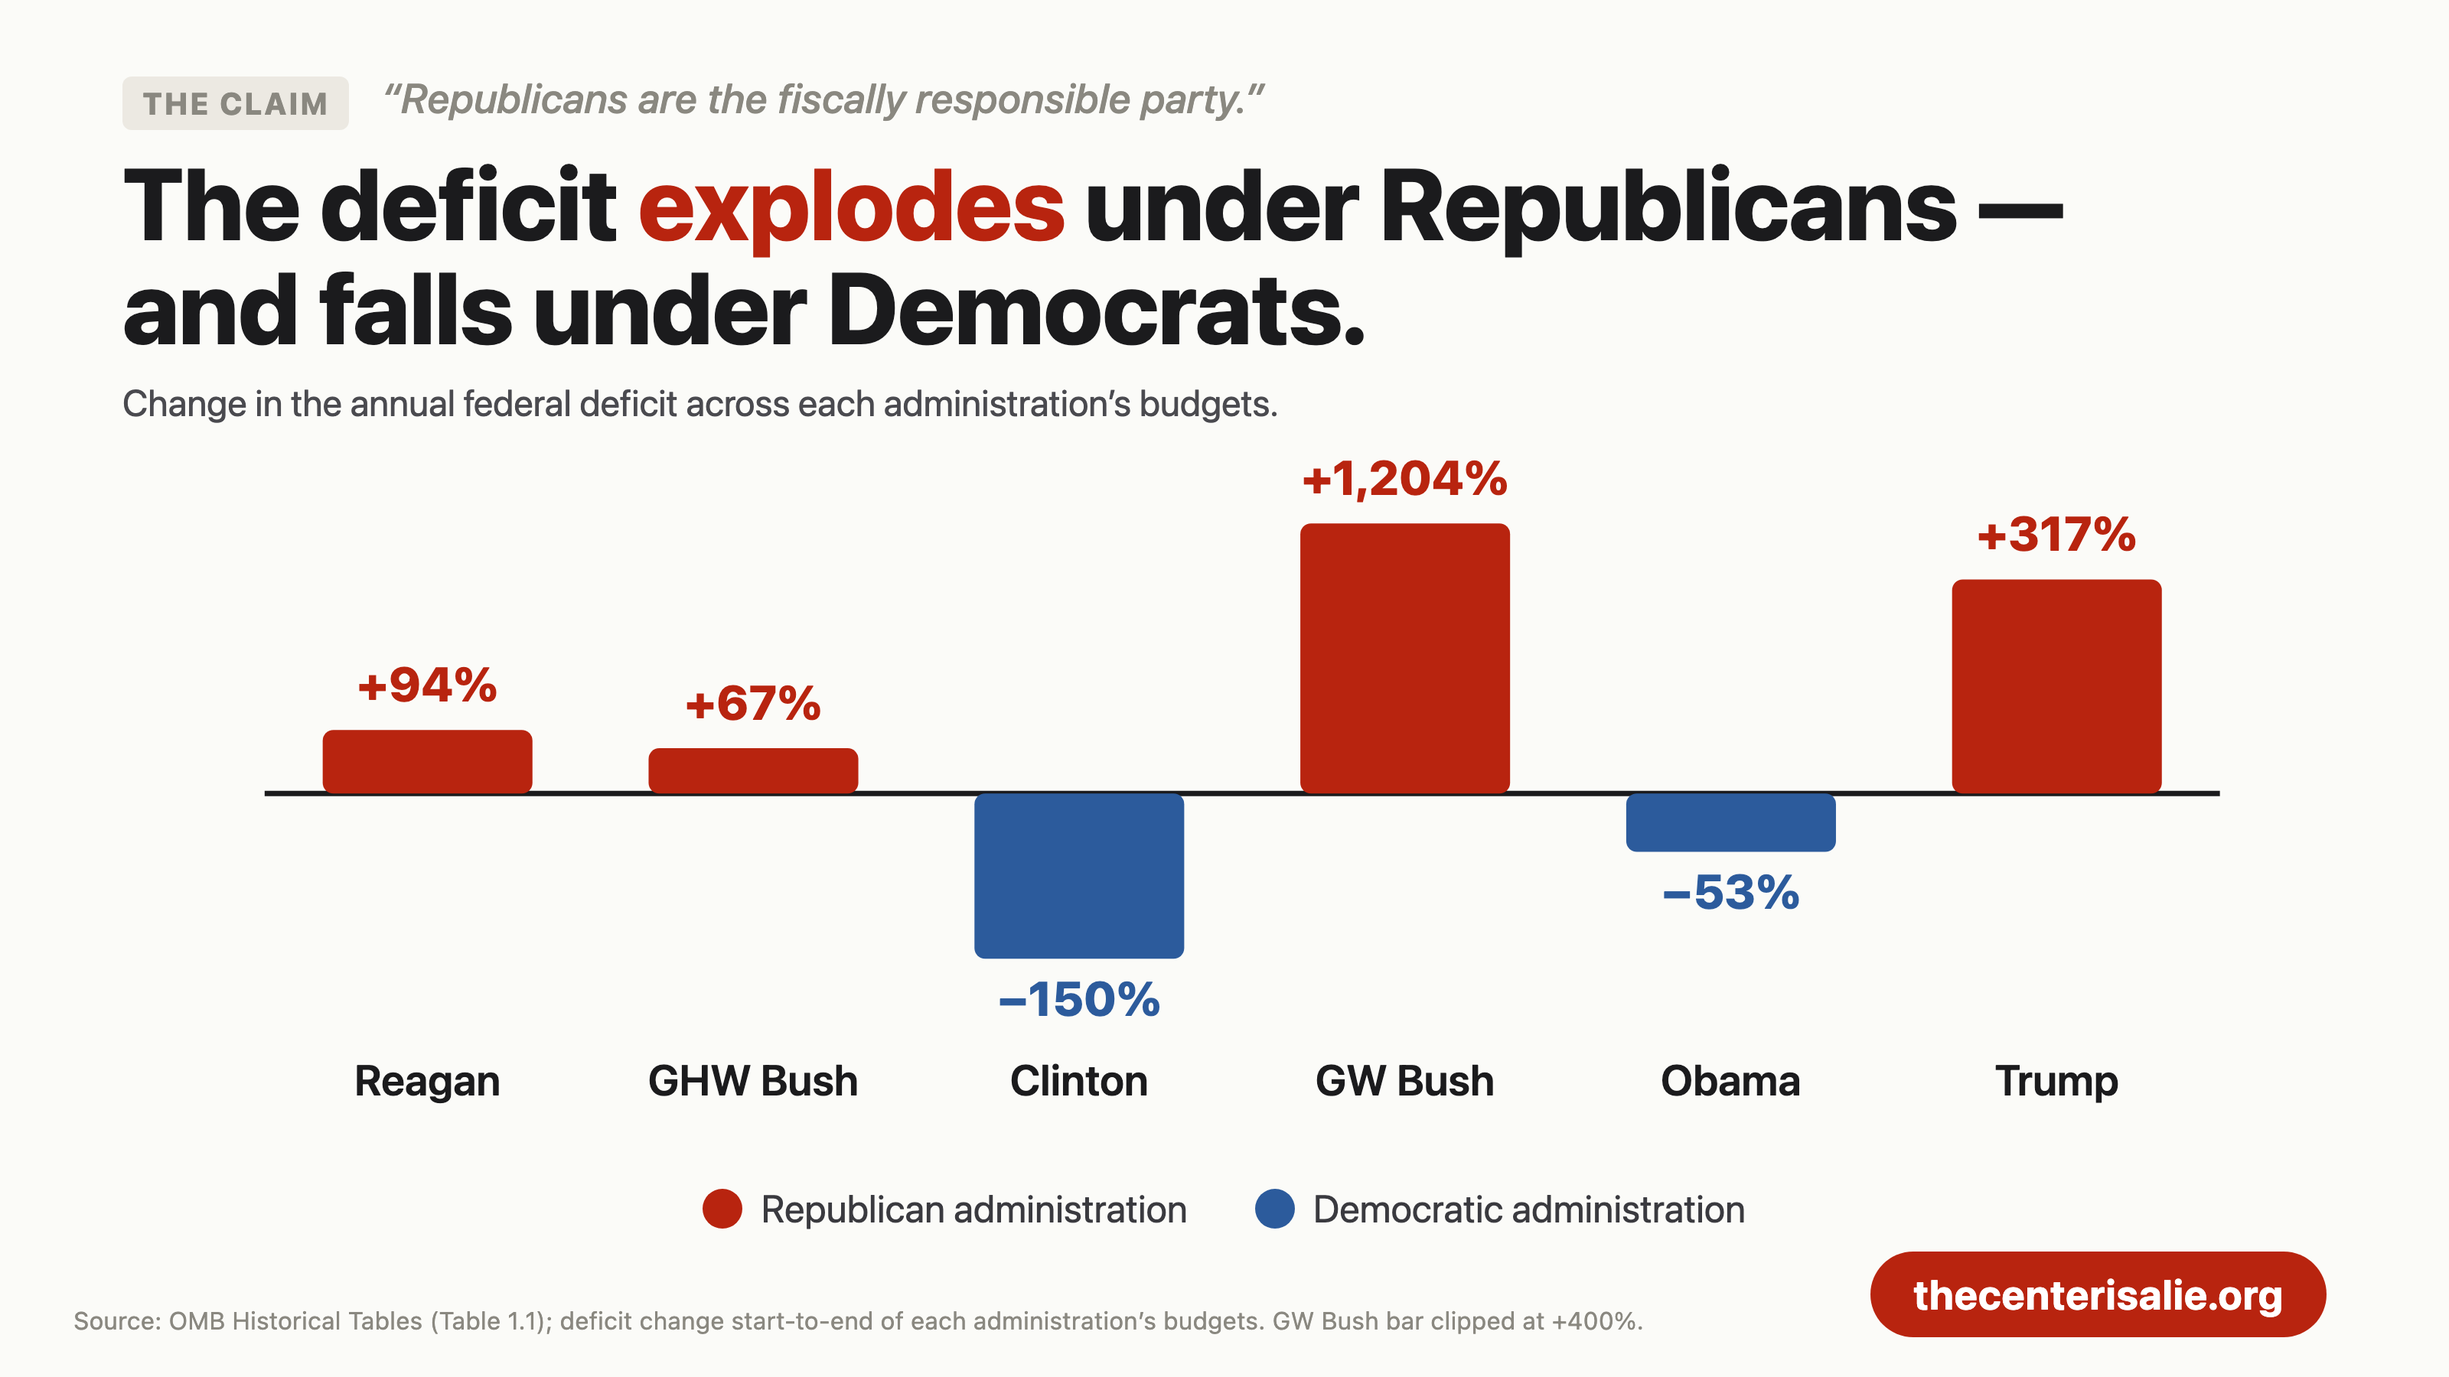
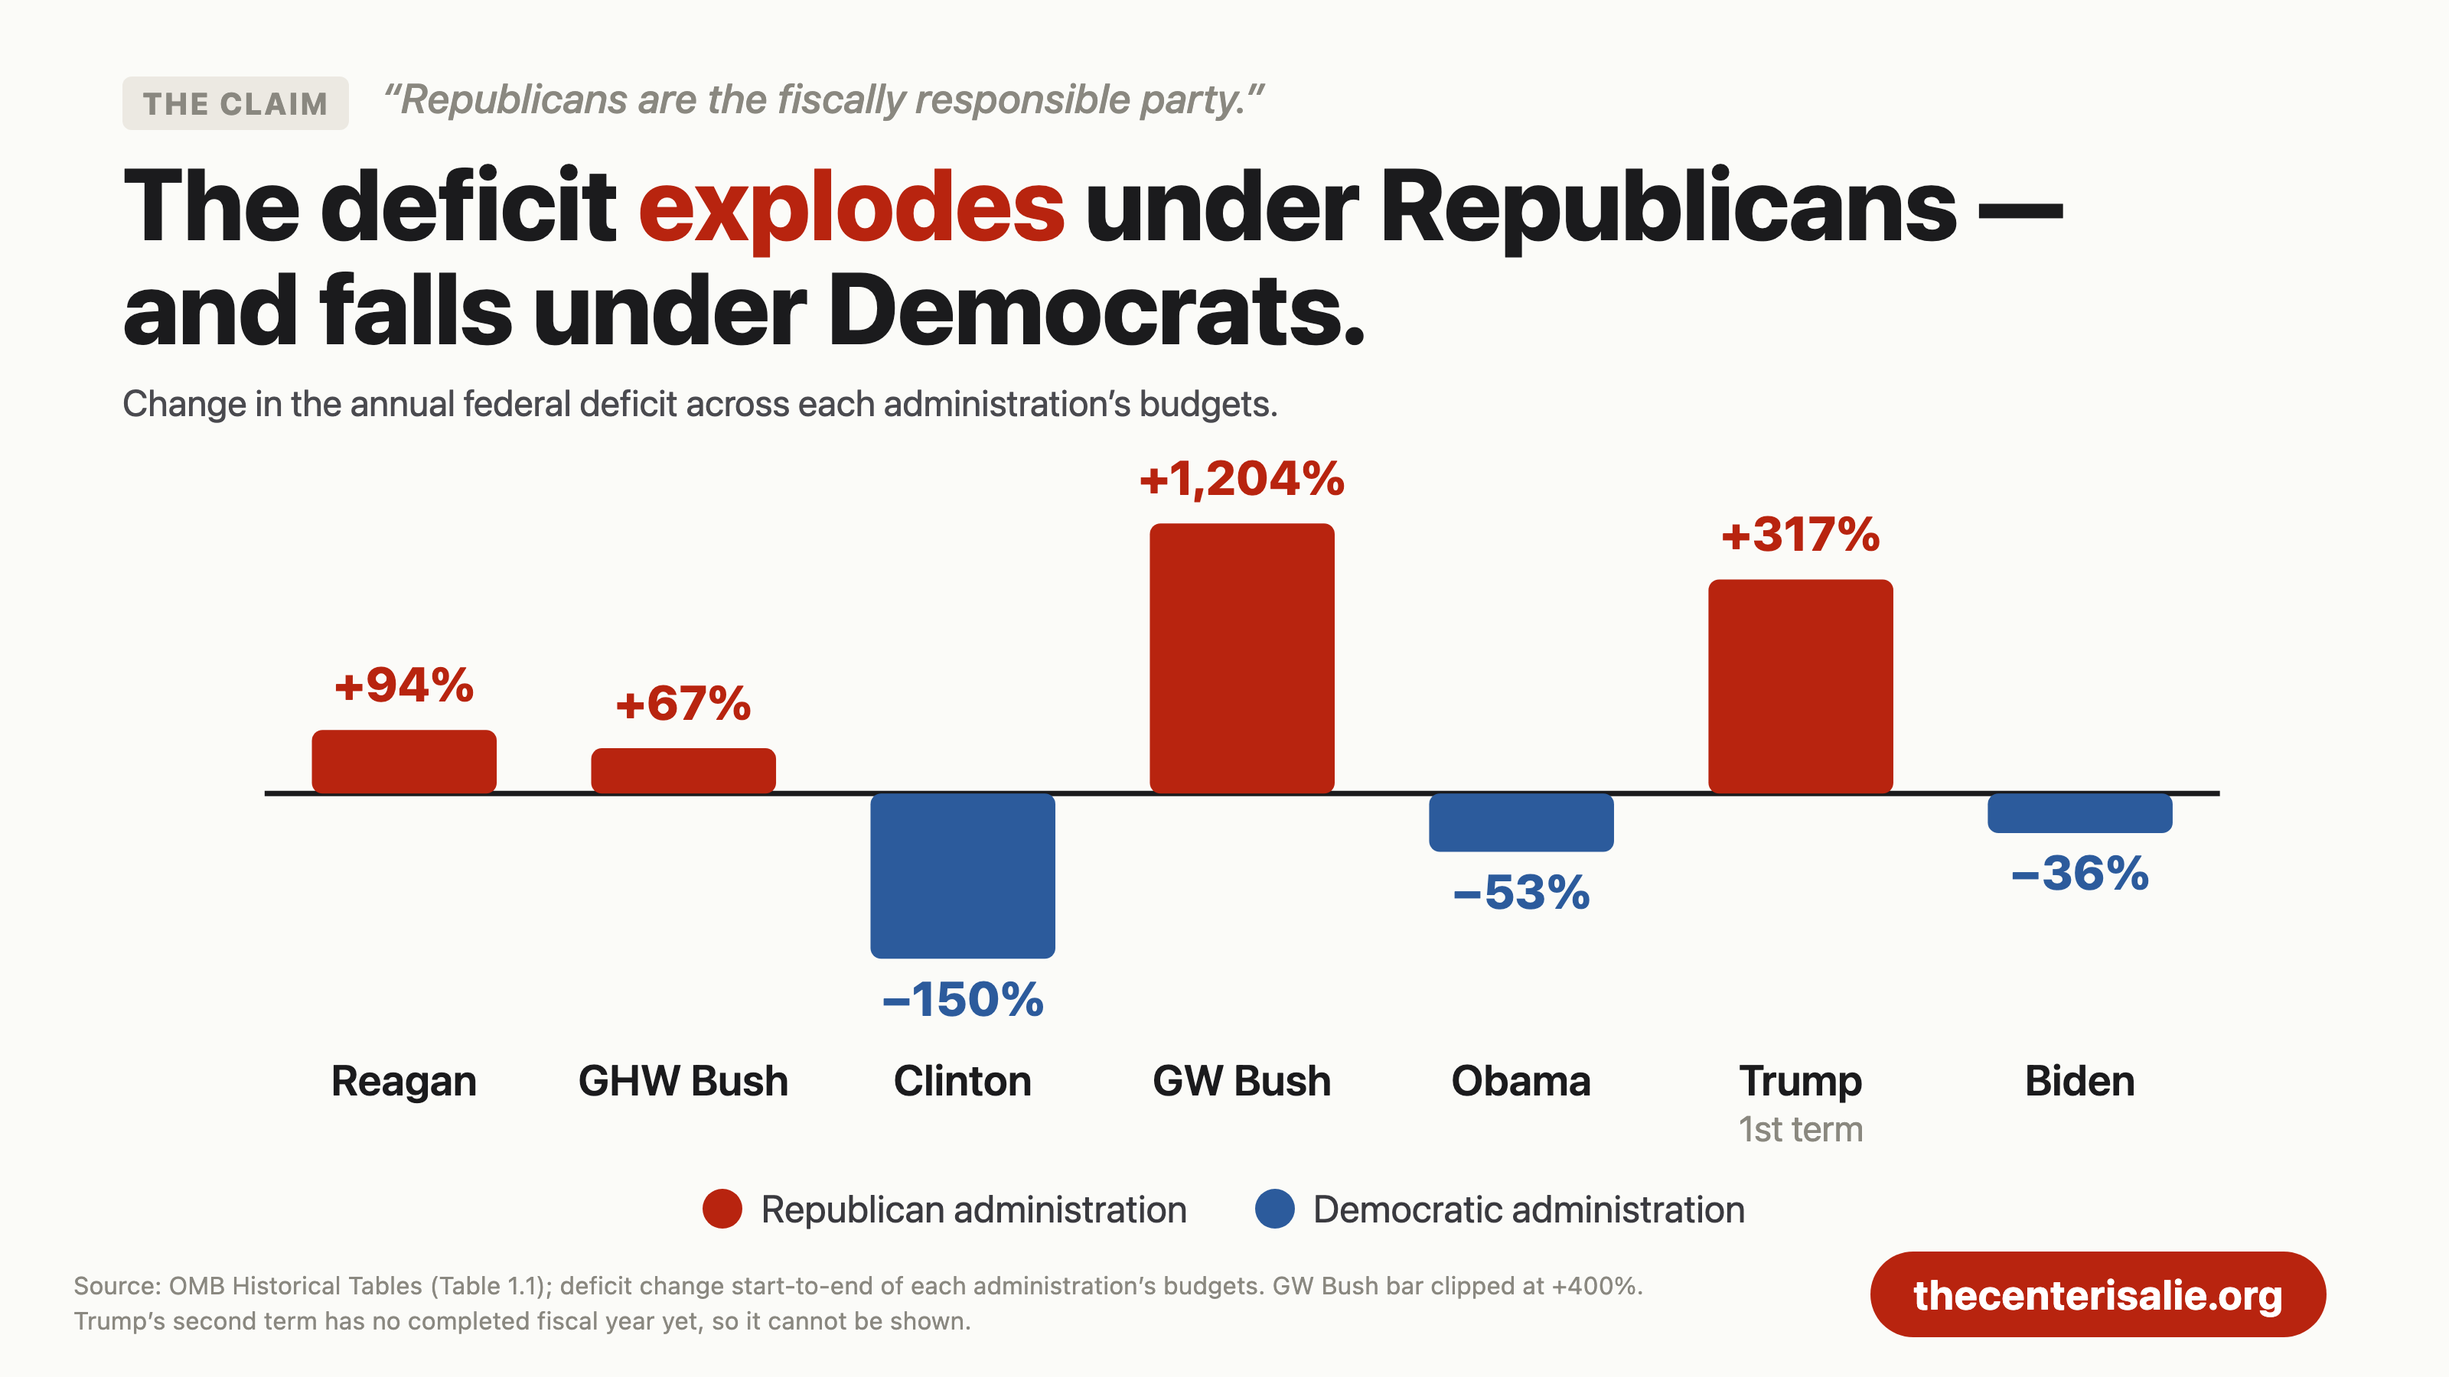
feat(og): add Biden to deficit; rebuild insideoutside as a proportional mosaic
deficit: Biden -36% (FY2021 $2,773.6B -> FY2025 $1,774.7B). Verified by
recomputing all six existing bars from the Treasury/OMB fiscal-year series
(FRED FYFSD) under the card's own convention, which reproduces every published
figure to within 0.3pp. Trump's bar relabeled "1st term"; the second term is
not shown because no fiscal year of it has closed, and the two non-consecutive
terms cannot be combined without sweeping Biden's budgets into the result.
Essay table and fn 80 updated in the same commit so prose and figure can't drift.

insideoutside: replaced the unscaled quadrant diagram with a mosaic whose cell
AREAS are shares of the 2016 electorate. Low trust is 75% of voters and spans
left, middle, right and no-position alike; high trust is 25%. Trust cut at
composite <=0.25, which is the same cutpoint as the already-published trust
terciles rather than a new one. "Haven't thought about it" is kept as its own
column instead of dropped, since at 13% of voters it is a substantive answer
and the most on-thesis one.

diff --git a/web/og-cards/chart-insideoutside.html b/web/og-cards/chart-insideoutside.html
@@ -2,56 +2,60 @@
 <html lang="en"><head><meta charset="utf-8"><link rel="stylesheet" href="./chart-card.css"></head>
 <body>
   <div class="chartcard">
-    <div class="cc-claim"><span class="tag">The claim</span> &ldquo;The winning move is to position yourself in the middle.&rdquo;</div>
-    <div class="cc-title">Nobody cares that Sanders is left of Buttigieg. They care that he&rsquo;s <span class="hl">outside</span>.</div>
-    <div class="cc-sub">Sanders and Trump agree on nothing and share the only trait a low-trust electorate rewards. Buttigieg and Romney agree on nothing either, and share the one it punishes. The horizontal axis is the argument every campaign has. The vertical one decides it.</div>
+    <div class="cc-claim"><span class="tag">The claim</span> &ldquo;Run as the safe, credentialed, inside-the-system candidate.&rdquo;</div>
+    <div class="cc-title">The &ldquo;inside the system&rdquo; pitch is aimed at the <span class="hl">smallest quarter</span> of the electorate.</div>
+    <div class="cc-sub">2016 voters by how much they trust government, sized to their real share. Three in four say Washington is run by a few big interests and wastes their money. They sit on the left, the right, and nowhere on the scale at all.</div>
 
-    <div class="cc-chart"><svg id="io" viewBox="0 0 1240 449" role="img"
-      aria-label="Quadrant diagram: Sanders and Trump sit outside the system at opposite ends of the left-right axis; Buttigieg and Romney sit inside it, near the middle"></svg></div>
+    <div class="cc-chart"><svg id="mo" viewBox="0 0 1240 430" role="img"
+      aria-label="Mosaic of 2016 voters. Low-trust band is 75 percent of voters, spanning left 18, middle 14, no position 13 and right 30 percent. High-trust band is 25 percent, spanning left 10, middle 5, no position 6 and right 5 percent."></svg></div>
 
     <div class="cc-foot">
-      <div class="cc-source">Framing, not a measured scale: positions show how each candidate was read by the electorate, per the inside/outside argument at thecenterisalie.org.</div>
+      <div class="cc-source">Source: ANES 2016 Time Series, POST weight (V160102), n=2,641 voters. Trust = 3-item composite (V161215/V161216/V161217, 0&ndash;1); low = &le;0.25, the same cutpoint as the published trust terciles. Ideology = 7-pt lib-con (V161126); &ldquo;no position&rdquo; = haven&rsquo;t thought much about it. Cell area is proportional to share of voters.</div>
       <div class="cc-btn">thecenterisalie.org</div>
     </div>
   </div>
 
   <script>
     const NS = 'http://www.w3.org/2000/svg';
-    const svg = document.getElementById('io');
+    const svg = document.getElementById('mo');
     const el = (t, a) => { const n = document.createElementNS(NS, t); for (const k in a) n.setAttribute(k, a[k]); return n; };
     const txt = (a, s) => { const t = el('text', a); t.textContent = s; svg.appendChild(t); return t; };
 
-    const X0 = 150, X1 = 1140, Y0 = 30, Y1 = 350;
-    const midX = (X0 + X1) / 2, midY = (Y0 + Y1) / 2;
-
-    // the outside half is the one that keeps winning, so tint it
-    svg.appendChild(el('rect', { x: X0, y: Y0, width: X1 - X0, height: midY - Y0, fill: '#b8240f', 'fill-opacity': 0.06 }));
-
-    // axes
-    svg.appendChild(el('line', { x1: X0, y1: midY, x2: X1, y2: midY, stroke: '#c9c6bd', 'stroke-width': 3 }));
-    svg.appendChild(el('line', { x1: midX, y1: Y0, x2: midX, y2: Y1, stroke: '#e0ddd5', 'stroke-width': 3, 'stroke-dasharray': '8 8' }));
-
-    txt({ x: X0, y: Y1 + 44, 'text-anchor': 'start', fill: '#6b6b70', 'font-size': 25, 'font-weight': 700 }, '← Left on policy');
-    txt({ x: X1, y: Y1 + 44, 'text-anchor': 'end', fill: '#6b6b70', 'font-size': 25, 'font-weight': 700 }, 'Right on policy →');
-    // band labels live inside their own half, so nothing rotates or collides
-    txt({ x: X0 + 18, y: Y0 + 34, 'text-anchor': 'start', fill: '#b8240f', 'font-size': 25, 'font-weight': 800, 'letter-spacing': 1.5 }, 'OUTSIDE THE SYSTEM');
-    txt({ x: X0 + 18, y: Y0 + 64, 'text-anchor': 'start', fill: '#b8240f', 'font-size': 23, opacity: 0.8 }, 'what a low-trust electorate rewards');
-    txt({ x: X0 + 18, y: Y1 - 40, 'text-anchor': 'start', fill: '#a8a59c', 'font-size': 25, 'font-weight': 800, 'letter-spacing': 1.5 }, 'INSIDE THE SYSTEM');
-    txt({ x: X0 + 18, y: Y1 - 12, 'text-anchor': 'start', fill: '#a8a59c', 'font-size': 23 }, 'what it punishes, however good the résumé');
-
-    const pts = [
-      { x: 0.10, y: 0.34, name: 'Sanders',   note: 'ran against the party',   out: true },
-      { x: 0.90, y: 0.16, name: 'Trump',     note: 'ran against everything',  out: true },
-      { x: 0.26, y: 0.70, name: 'Buttigieg', note: 'ran as the credential',   out: false },
-      { x: 0.82, y: 0.86, name: 'Romney',    note: 'ran as the résumé',       out: false },
+    // Weighted % of all 2016 voters. Row heights and cell widths are both
+    // proportional, so every cell's AREA is its share of the electorate.
+    const rows = [
+      { key: 'low',  label: 'LOW TRUST', note: 'the outsider’s electorate',
+        cells: [['Left', 17.65], ['Middle', 14.16], ['No position', 13.22], ['Right', 29.61]] },
+      { key: 'high', label: 'HIGH TRUST', note: 'who the “safe” pitch speaks to',
+        cells: [['Left', 9.60], ['Middle', 5.17], ['No position', 5.66], ['Right', 4.94]] },
     ];
-    pts.forEach((p) => {
-      const cx = X0 + p.x * (X1 - X0), cy = Y0 + p.y * (Y1 - Y0);
-      const col = p.out ? '#b8240f' : '#8a887f';
-      svg.appendChild(el('circle', { cx, cy, r: 17, fill: col, stroke: '#fbfbf8', 'stroke-width': 3 }));
-      const anchor = p.x > 0.6 ? 'end' : 'start', dx = p.x > 0.6 ? -32 : 32;
-      txt({ x: cx + dx, y: cy - 4, 'text-anchor': anchor, fill: p.out ? '#b8240f' : '#1b1b1d', 'font-size': 36, 'font-weight': 800 }, p.name);
-      txt({ x: cx + dx, y: cy + 28, 'text-anchor': anchor, fill: '#7a7772', 'font-size': 23 }, p.note);
+    const X0 = 215, X1 = 1220, W = X1 - X0, TOP = 20, H = 330, GAP = 10;
+    const total = rows.reduce((a, r) => a + r.cells.reduce((b, c) => b + c[1], 0), 0);
+    const rowTot = rows.map((r) => r.cells.reduce((b, c) => b + c[1], 0));
+
+    let y = TOP;
+    rows.forEach((r, ri) => {
+      const rh = (rowTot[ri] / total) * (H - GAP);
+      const hot = r.key === 'low';
+      let x = X0;
+      r.cells.forEach(([name, v], ci) => {
+        const cw = (v / rowTot[ri]) * W - 4;
+        const shade = hot ? ['#d8593f', '#c93a20', '#a81d0a', '#8d1706'][ci] : ['#a7b3bd', '#93a1ad', '#7f8f9d', '#6d7d8c'][ci];
+        svg.appendChild(el('rect', { x, y, width: cw, height: rh, rx: 5, fill: shade }));
+        if (rh > 44) {
+          txt({ x: x + cw / 2, y: y + rh / 2 - 2, 'text-anchor': 'middle', fill: '#fff', 'font-size': 25, 'font-weight': 800 }, v.toFixed(0) + '%');
+          txt({ x: x + cw / 2, y: y + rh / 2 + 26, 'text-anchor': 'middle', fill: '#ffffffcc', 'font-size': 19 }, name);
+        } else {
+          txt({ x: x + cw / 2, y: y + rh / 2 + 8, 'text-anchor': 'middle', fill: '#fff', 'font-size': 22, 'font-weight': 800 }, v.toFixed(0) + '%');
+        }
+        x += cw + 4;
+      });
+      // row label + running total, outside the bar on the left
+      txt({ x: X0 - 20, y: y + rh / 2 - 4, 'text-anchor': 'end', fill: hot ? '#b8240f' : '#7a8894', 'font-size': 25, 'font-weight': 800 }, r.label);
+      txt({ x: X0 - 20, y: y + rh / 2 + 24, 'text-anchor': 'end', fill: '#8a887f', 'font-size': 19 }, Math.round(rowTot[ri]) + '% of voters');
+      y += rh + GAP;
     });
+
+    txt({ x: X0, y: TOP + H + 40, 'text-anchor': 'start', fill: '#7a7772', 'font-size': 22, 'font-style': 'italic' }, 'Every band spans the whole left-right axis. The split that matters runs the other way.');
   </script>
 </body></html>

diff --git a/web/og-cards/chart-deficit.html b/web/og-cards/chart-deficit.html
@@ -7,7 +7,7 @@
     <div class="cc-sub">Change in the annual federal deficit across each administration&rsquo;s budgets.</div>
 
     <div class="cc-chart"><svg id="def" viewBox="0 0 1240 400" role="img"
-      aria-label="Deficit change: Reagan +94%, GHW Bush +67%, Clinton -150%, GW Bush +1204%, Obama -53%, Trump +317%"></svg></div>
+      aria-label="Deficit change: Reagan +94%, GHW Bush +67%, Clinton -150%, GW Bush +1204%, Obama -53%, Trump first term +317%, Biden -36%"></svg></div>
 
     <div class="cc-legend">
       <div class="item"><span class="dot" style="background:#b8240f"></span>Republican administration</div>
@@ -15,7 +15,7 @@
     </div>
 
     <div class="cc-foot">
-      <div class="cc-source">Source: OMB Historical Tables (Table 1.1); deficit change start-to-end of each administration&rsquo;s budgets. GW Bush bar clipped at +400%.</div>
+      <div class="cc-source">Source: OMB Historical Tables (Table 1.1); deficit change start-to-end of each administration&rsquo;s budgets. GW Bush bar clipped at +400%. Trump&rsquo;s second term has no completed fiscal year yet, so it cannot be shown.</div>
       <div class="cc-btn">thecenterisalie.org</div>
     </div>
   </div>
@@ -27,13 +27,14 @@
     const D = [
       { who: 'Reagan', v: 94, r: true }, { who: 'GHW Bush', v: 67, r: true },
       { who: 'Clinton', v: -150, r: false }, { who: 'GW Bush', v: 1204, r: true },
-      { who: 'Obama', v: -53, r: false }, { who: 'Trump', v: 317, r: true },
+      { who: 'Obama', v: -53, r: false }, { who: 'Trump', v: 317, r: true, sub: '1st term' },
+      { who: 'Biden', v: -36, r: false },
     ];
     const X0 = 80, X1 = 1180, zeroY = 196, UP = 400, DN = -200, topY = 44, botY = 320;
     const yv = (v) => v >= 0 ? zeroY - Math.min(v, UP) / UP * (zeroY - topY) : zeroY - Math.max(v, DN) / DN * (botY - zeroY) * -1;
     const yPos = (v) => zeroY - Math.min(v, UP) / UP * (zeroY - topY);
     const yNeg = (v) => zeroY + Math.min(Math.abs(v), Math.abs(DN)) / Math.abs(DN) * (botY - zeroY);
-    const bandW = (X1 - X0) / D.length, bw = 118;
+    const bandW = (X1 - X0) / D.length, bw = 104;
     svg.appendChild(el('line', { x1: X0, y1: zeroY, x2: X1, y2: zeroY, stroke: '#1b1b1d', 'stroke-width': 3 }));
     D.forEach((d, i) => {
       const cx = X0 + bandW * (i + 0.5), col = d.r ? '#b8240f' : '#2c5b9c';
@@ -43,6 +44,7 @@
       const vy = d.v >= 0 ? yTip - 16 : yTip + 32;
       const vl = el('text', { x: cx, y: vy, 'text-anchor': 'middle', fill: col, 'font-size': 27, 'font-weight': 800 }); vl.textContent = (d.v > 0 ? '+' : '−') + Math.abs(d.v).toLocaleString() + '%'; svg.appendChild(vl);
       const nm = el('text', { x: cx, y: 366, 'text-anchor': 'middle', fill: '#1b1b1d', 'font-size': 24, 'font-weight': 600 }); nm.textContent = d.who; svg.appendChild(nm);
+      if (d.sub) { const sb = el('text', { x: cx, y: 392, 'text-anchor': 'middle', fill: '#8a887f', 'font-size': 20 }); sb.textContent = d.sub; svg.appendChild(sb); }
     });
   </script>
 </body></html>

diff --git a/web/index.html b/web/index.html
@@ -3942,7 +3942,7 @@
         <tr><td>GW Bush (R, 2001–2009)</td><td>Deficit increase</td><td><strong>+1,204%</strong></td></tr>
         <tr class="prose-table--hi"><td>Obama (D, 2009–2017)</td><td>Deficit decrease</td><td><strong>−53%</strong></td></tr>
         <tr><td>Trump (R, 2017–2021)</td><td>Deficit increase</td><td><strong>+317%</strong> ($6.6T cumulative, incl. tax cuts + COVID)</td></tr>
-        <tr class="prose-table--hi"><td>Biden (D, 2021–2025)</td><td>Deficit decrease from 2020 peak</td><td>(still elevated post-pandemic)</td></tr>
+        <tr class="prose-table--hi"><td>Biden (D, 2021–2025)</td><td>Deficit decrease</td><td><strong>−36%</strong> (FY2021 $2.77T → FY2025 $1.77T; still elevated post-pandemic)</td></tr>
       </tbody>
     </table>
 
@@ -4062,7 +4062,13 @@
           Clinton −150% (ending in four consecutive surplus years, FY 1998–2001, the only such
           stretch in the last half-century); GW Bush +1,204%; Obama −53% (measured from the
           2009 crisis peak); Trump +317% (~$6.6T cumulative, including the 2017 tax cuts and
-          2020 COVID response); Biden falling from the 2020 pandemic peak but still elevated.
+          2020 COVID response); Biden −36% (FY2021 $2,773.6B → FY2025 $1,774.7B, falling from
+          the 2020 pandemic peak but still elevated), computed on the same convention as the
+          rows above and cross-checked against the Treasury/OMB fiscal-year series (FRED
+          <code>FYFSD</code>, retrieved 2026-07-22), which reproduces every figure in this note
+          to within 0.3 percentage points. Trump’s second term is not shown: no fiscal year of
+          it has closed, so there is no outturn to measure, and the two non-consecutive terms
+          cannot be combined without sweeping Biden’s budgets into the result.
           The numbers move with the business cycle and one-time shocks (financial crisis,
           pandemic) as well as policy, so the point is the <em>direction</em> consistency
           across the partisan label, not a clean causal attribution to any single president’s
